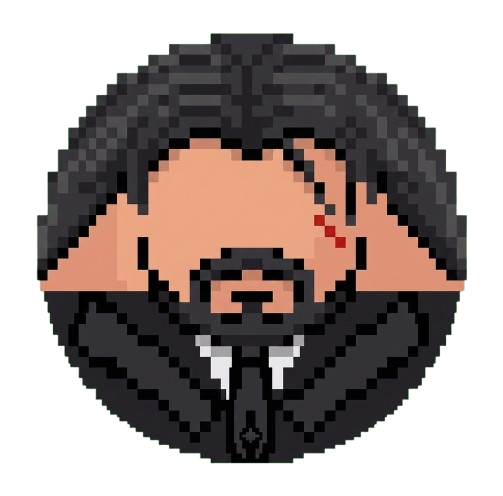
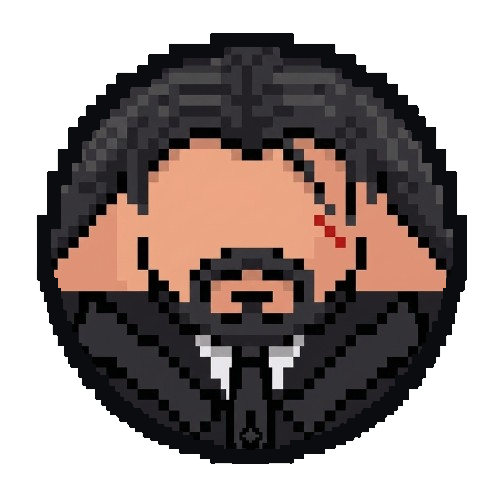
fix(johnwick): bake discrete black pixel stroke directly into Johnwick-pixel-skin.png and update loader cache buster

Changed region(s): [[0.0596, 0.0605, 0.9543, 0.9375]]

diff --git a/js/graphics/fighters/johnWickSkin.js b/js/graphics/fighters/johnWickSkin.js
@@ -31,7 +31,7 @@ export function _getJohnWickPixelSkinImage() {
       console.warn('Failed to load John Wick pixel skin at Assets/model/Johnwick-pixel-skin.png', e);
       _johnWickPixelSkinLoading = false;
     };
-    img.src = 'Assets/model/Johnwick-pixel-skin.png?v=1';
+    img.src = 'Assets/model/Johnwick-pixel-skin.png?v=2';
     _johnWickPixelSkinImage = img;
   }
   return _johnWickPixelSkinImage;
@@ -109,212 +109,14 @@ export function drawJohnWickPixelHand(ctx, x, y, radius, skinColor) {
 }
 
 /**
- * Draws the discrete 4-neighbor attached stepped black stroke border around the character circle.
- * Exact same technique used in Saitama, Gojo, Yuji, and Nanami skins.
- */
-function drawPixelatedCircleBorder(ctx, r) {
-  const P = 2.0;
-  const snap = (v) => Math.round(v / P) * P;
-  const steps = Math.ceil((r + P) / P);
-
-  ctx.fillStyle = '#0B0C10';
-  for (let gy = -steps; gy <= steps; gy++) {
-    for (let gx = -steps; gx <= steps; gx++) {
-      const rx = gx * P;
-      const ry = gy * P;
-      const dist = Math.hypot(rx, ry);
-      if (dist > r) continue;
-
-      if (
-        Math.hypot(rx + P, ry) > r ||
-        Math.hypot(rx - P, ry) > r ||
-        Math.hypot(rx, ry + P) > r ||
-        Math.hypot(rx, ry - P) > r
-      ) {
-        ctx.fillRect(snap(rx), snap(ry), P, P);
-      }
-    }
-  }
-}
-
-// Pre-seeded static particle array for aura motes (Zero GC allocation per frame)
-const _WICK_AURA_MOTES = Array.from({ length: 14 }, (_, i) => ({
-  speed: 0.6 + (i % 5) * 0.25,
-  phase: (i * 0.45) % (Math.PI * 2),
-  radiusMul: 1.05 + ((i * 17) % 70) * 0.01,
-  size: 1.4 + ((i * 13) % 20) * 0.1,
-  isGold: i % 4 === 0
-}));
-
-/**
- * Draws John Wick's Emanating Black-Gray Assassin Aura during Ultimate Mode (Excommunicado / M4 Rifle)
- * Rule 11 & Rule 16 Compliant: Zero shadowBlur, purely geometric & gradient based.
- */
-export function drawJohnWickExcommunicadoAura(ctx, r, isForeground = false) {
-  const now = Date.now();
-  const time = now * 0.0032;
-
-  ctx.save();
-
-  if (!isForeground) {
-    // ── 1. DEEP GROUND SHADOW / VOID VORTEX (Rule 11: Radial Gradient) ──
-    const groundGrad = ctx.createRadialGradient(0, 0, r * 0.35, 0, 0, r * 2.35);
-    groundGrad.addColorStop(0,    'rgba(5, 5, 8, 0.82)');
-    groundGrad.addColorStop(0.30, 'rgba(23, 28, 38, 0.58)');
-    groundGrad.addColorStop(0.65, 'rgba(51, 65, 85, 0.28)');
-    groundGrad.addColorStop(1,    'rgba(0, 0, 0, 0)');
-    ctx.fillStyle = groundGrad;
-    ctx.beginPath();
-    ctx.arc(0, 0, r * 2.35, 0, Math.PI * 2);
-    ctx.fill();
-
-    // ── 2. CONCENTRIC EXPANDING DARK CORONA SHOCKWAVES ──
-    for (let w = 0; w < 2; w++) {
-      const waveProgress = ((time * 0.55 + w * 0.50) % 1.0);
-      const waveR = r * (1.05 + waveProgress * 0.85);
-      const waveAlpha = (1.0 - waveProgress) * 0.45;
-      ctx.strokeStyle = `rgba(30, 41, 59, ${waveAlpha.toFixed(3)})`;
-      ctx.lineWidth = 2.4 * (1.0 - waveProgress * 0.55);
-      ctx.beginPath();
-      ctx.arc(0, 0, waveR, 0, Math.PI * 2);
-      ctx.stroke();
-    }
-
-    // ── 3. EMANATING DARK FLAME & SMOKE TENDRILS (18 Organic Petals) ──
-    const tendrilCount = 18;
-    for (let i = 0; i < tendrilCount; i++) {
-      const baseA = (i / tendrilCount) * Math.PI * 2;
-      const wobble = Math.sin(time * 2.8 + i * 1.4) * 0.14;
-      const angle = baseA + wobble;
-      const len = r * (1.28 + Math.sin(time * 3.4 + i * 2.2) * 0.34);
-      const halfWidth = 0.18;
-
-      const tipX = Math.cos(angle) * len;
-      const tipY = Math.sin(angle) * len;
-      const leftX = Math.cos(baseA - halfWidth) * (r * 0.95);
-      const leftY = Math.sin(baseA - halfWidth) * (r * 0.95);
-      const rightX = Math.cos(baseA + halfWidth) * (r * 0.95);
-      const rightY = Math.sin(baseA + halfWidth) * (r * 0.95);
-      const midCtrlX = Math.cos(angle + 0.10) * (len * 0.62);
-      const midCtrlY = Math.sin(angle + 0.10) * (len * 0.62);
-
-      let color = 'rgba(10, 12, 16, 0.84)'; // Deep ink black
-      if (i % 3 === 1) color = 'rgba(51, 65, 85, 0.68)'; // Steel charcoal gray
-      else if (i % 3 === 2) color = 'rgba(30, 41, 59, 0.55)'; // Cold slate smoke
-
-      ctx.fillStyle = color;
-      ctx.beginPath();
-      ctx.moveTo(leftX, leftY);
-      ctx.quadraticCurveTo(midCtrlX, midCtrlY, tipX, tipY);
-      ctx.quadraticCurveTo(midCtrlX * 0.85, midCtrlY * 0.85, rightX, rightY);
-      ctx.closePath();
-      ctx.fill();
-    }
-
-    // ── 4. ORBITING ASH & SHADOW MOTES ──
-    for (let m = 0; m < _WICK_AURA_MOTES.length; m++) {
-      const mote = _WICK_AURA_MOTES[m];
-      const motA = (time * mote.speed + mote.phase) % (Math.PI * 2);
-      const motDist = r * (mote.radiusMul + Math.sin(time * 2.2 + mote.phase) * 0.22);
-      const mx = Math.cos(motA) * motDist;
-      const my = Math.sin(motA) * motDist;
-
-      if (mote.isGold) {
-        ctx.fillStyle = 'rgba(217, 119, 6, 0.70)'; // Faint Continental Gold speck
-      } else {
-        ctx.fillStyle = 'rgba(148, 163, 184, 0.65)'; // Slate silver ash mote
-      }
-
-      ctx.beginPath();
-      ctx.arc(mx, my, mote.size, 0, Math.PI * 2);
-      ctx.fill();
-    }
-  } else {
-    // ── FOREGROUND RIM & VOLUMETRIC SMOKE WHISPERS ──
-    // Subtle pulsating charcoal-silver rim around John Wick's circumference
-    const rimPulse = 0.55 + Math.sin(time * 4.0) * 0.25;
-    ctx.strokeStyle = `rgba(148, 163, 184, ${rimPulse.toFixed(3)})`;
-    ctx.lineWidth = 2.0;
-    ctx.beginPath();
-    ctx.arc(0, 0, r + 0.5, 0, Math.PI * 2);
-    ctx.stroke();
-
-    // 4 Frontal smoke wisps crossing over body
-    for (let f = 0; f < 4; f++) {
-      const fAngle = (time * 1.8 + f * 1.57) % (Math.PI * 2);
-      const fDist = r * (0.45 + Math.sin(time * 2.5 + f) * 0.35);
-      const fx = Math.cos(fAngle) * fDist;
-      const fy = Math.sin(fAngle) * fDist;
-      const fw = r * 0.32;
-
-      ctx.fillStyle = (f % 2 === 0) ? 'rgba(15, 23, 42, 0.28)' : 'rgba(71, 85, 105, 0.22)';
-      ctx.beginPath();
-      ctx.ellipse(fx, fy, fw, fw * 0.55, fAngle, 0, Math.PI * 2);
-      ctx.fill();
-    }
-  }
-
-  ctx.restore();
-}
-
-// Cached Path2D stepped pixel circle clipping mask to prevent per-frame GC allocations
-let _cachedPixelClipPath = null;
-let _cachedPixelClipR = 0;
-
-function getPixelatedCirclePath(r) {
-  if (_cachedPixelClipPath && _cachedPixelClipR === r) {
-    return _cachedPixelClipPath;
-  }
-  const P = 2.0;
-  const snap = (v) => Math.round(v / P) * P;
-  const steps = Math.ceil((r + P) / P);
-
-  const path = (typeof Path2D !== 'undefined') ? new Path2D() : null;
-  if (path) {
-    for (let gy = -steps; gy <= steps; gy++) {
-      const ry = gy * P;
-      let minGx = null;
-      let maxGx = null;
-      for (let gx = -steps; gx <= steps; gx++) {
-        const rx = gx * P;
-        if (Math.hypot(rx, ry) <= r) {
-          if (minGx === null) minGx = gx;
-          maxGx = gx;
-        }
-      }
-      if (minGx !== null && maxGx !== null) {
-        const px = snap(minGx * P);
-        const py = snap(ry);
-        const pw = snap((maxGx - minGx + 1) * P);
-        path.rect(px, py, pw, P);
-      }
-    }
-  }
-  _cachedPixelClipR = r;
-  _cachedPixelClipPath = path;
-  return _cachedPixelClipPath;
-}
-
-/**
  * Authentic 1:1 Procedural Pixel Art Body for John Wick ("The Baba Yaga")
  * Renders the pixelated skin model image (Johnwick-pixel-skin.png) with nearest-neighbor scaling
- * and overlays the discrete 4-neighbor attached stepped pixelated black stroke border (Saitama / Gojo standard).
+ * with its authentic 4-neighbor attached black pixel stroke border.
  */
 export function drawJohnWickPixelBody(ctx, r) {
   ctx.save();
   ctx.imageSmoothingEnabled = false;
 
-  // 1. Strict Discrete Stepped Pixel Mask Clipping (Zero overflow outside stroke)
-  const clipPath = getPixelatedCirclePath(r);
-  if (clipPath) {
-    ctx.clip(clipPath);
-  } else {
-    ctx.beginPath();
-    ctx.arc(0, 0, r, 0, Math.PI * 2);
-    ctx.clip();
-  }
-
-  // 2. Draw Skin Model Image or Procedural Fallback
   const skinImg = _getJohnWickPixelSkinImage();
   if (skinImg && skinImg.complete && skinImg.naturalWidth > 0) {
     // Scale up by 1.175x to compensate for the 36px transparent margins in the PNG so the model fills the circle boundary snugly
@@ -325,9 +127,6 @@ export function drawJohnWickPixelBody(ctx, r) {
     // Procedural discrete pixel fallback while image is loading
     _drawJohnWickProceduralPixelBody(ctx, r);
   }
-
-  // 3. Draw Stepped Pixelated Black Stroke Border on Top (Saitama / Gojo Tech)
-  drawPixelatedCircleBorder(ctx, r);
 
   ctx.restore();
 }
